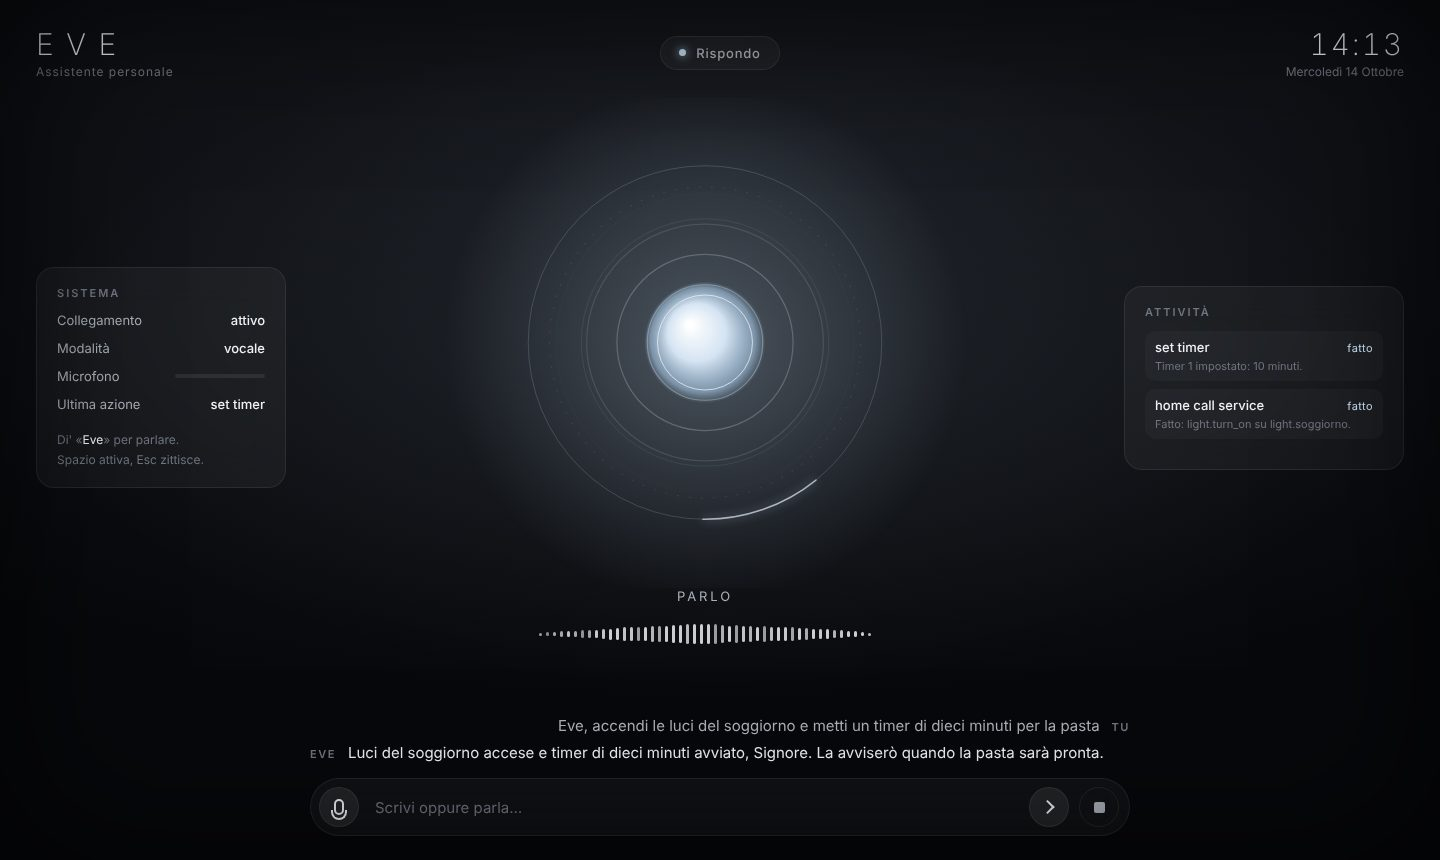
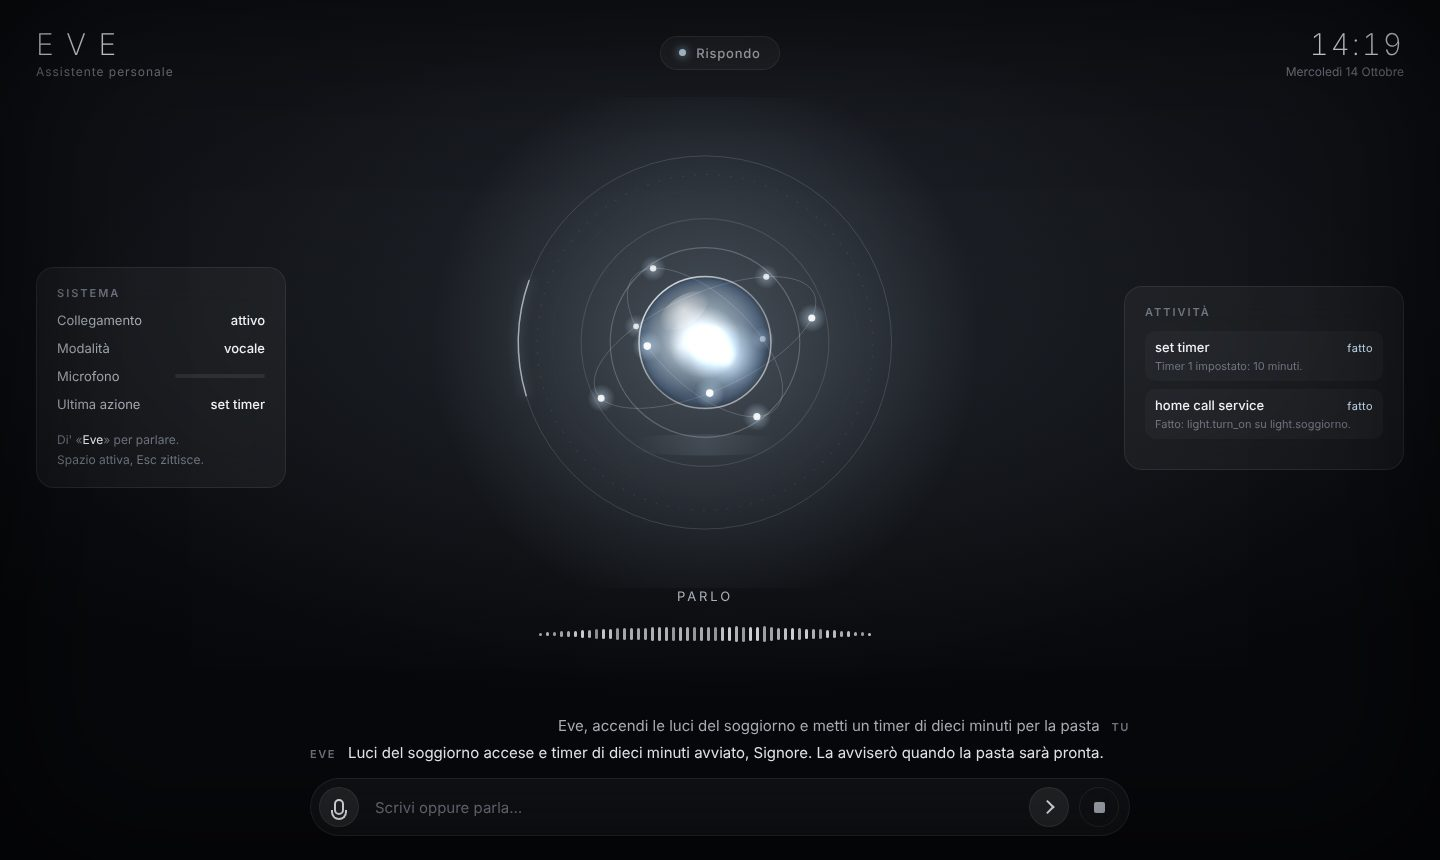
Eve: sfera di vetro con luce interna, orbite inclinate e particelle in 3D
Claude-Session: https://claude.ai/code/session_013V2Xh7CMVtWsTH5LgTtA8c

Changed region(s): [[0.4062, 0.3023, 0.5938, 0.514], [0.4375, 0.7256, 0.5625, 0.7558]]

diff --git a/jarvis/jarvis/ui/static/hud.js b/jarvis/jarvis/ui/static/hud.js
@@ -157,6 +157,9 @@
   window.addEventListener("resize", resize);
   resize();
 
+  const ICE = "207, 233, 255";
+  const SILVER = "235, 240, 246";
+
   function ring(cx, cy, r, width, alpha, dash, rot) {
     ctx.save();
     ctx.translate(cx, cy);
@@ -164,10 +167,148 @@
     ctx.beginPath();
     ctx.arc(0, 0, r, 0, Math.PI * 2);
     ctx.lineWidth = width;
-    ctx.strokeStyle = "rgba(235, 240, 246, " + alpha + ")";
+    ctx.strokeStyle = "rgba(" + SILVER + ", " + alpha + ")";
     if (dash) ctx.setLineDash(dash);
     ctx.stroke();
     ctx.restore();
+  }
+
+  /* Orbite inclinate: cerchi in 3D proiettati sullo schermo */
+  const ORBITS = [
+    { r: 0.64, tilt: 0.95, roll: -0.42, spin: 0.35, phase: 0.0, n: 5 },
+    { r: 0.52, tilt: 1.25, roll: 0.75, spin: -0.5, phase: 1.3, n: 4 },
+  ];
+  function orbitPoint(o, R, theta, rot) {
+    // cerchio nel piano XZ che gira attorno all'asse verticale (rot), visto da un punto
+    // di vista inclinato (tilt) e con il piano ruotato sullo schermo (roll)
+    const x0 = Math.cos(theta), z0 = Math.sin(theta);
+    const x = x0 * Math.cos(rot) - z0 * Math.sin(rot);
+    const z = x0 * Math.sin(rot) + z0 * Math.cos(rot);
+    const px = x * R * o.r, py = z * R * o.r * Math.sin(o.tilt) * 0.5;
+    return { x: px * Math.cos(o.roll) - py * Math.sin(o.roll), y: px * Math.sin(o.roll) + py * Math.cos(o.roll), zr: z };
+  }
+  function drawOrbitRing(cx, cy, o, R, rot, alpha) {
+    ctx.save();
+    ctx.translate(cx, cy);
+    ctx.beginPath();
+    for (let i = 0; i <= 90; i++) {
+      const p = orbitPoint(o, R, (i / 90) * Math.PI * 2, rot);
+      if (i === 0) ctx.moveTo(p.x, p.y); else ctx.lineTo(p.x, p.y);
+    }
+    ctx.closePath();
+    ctx.lineWidth = 1;
+    ctx.strokeStyle = "rgba(" + SILVER + ", " + alpha + ")";
+    ctx.stroke();
+    ctx.restore();
+  }
+  function drawParticles(cx, cy, o, R, rot, t, speed, energy, front) {
+    ctx.save();
+    ctx.translate(cx, cy);
+    for (let k = 0; k < o.n; k++) {
+      const theta = t * o.spin * speed + o.phase + (k / o.n) * Math.PI * 2;
+      const p = orbitPoint(o, R, theta, rot);
+      const isFront = p.zr > 0;
+      if (isFront !== front) continue;
+      const scale = 0.6 + 0.4 * (p.zr + 1) / 2;
+      const size = (1.2 + 1.6 * scale) * (1 + energy * 0.6);
+      const a = (0.25 + 0.6 * scale) * (0.5 + energy * 0.6);
+      const g = ctx.createRadialGradient(p.x, p.y, 0, p.x, p.y, size * 4);
+      g.addColorStop(0, "rgba(255, 255, 255, " + a + ")");
+      g.addColorStop(0.3, "rgba(" + ICE + ", " + a * 0.5 + ")");
+      g.addColorStop(1, "rgba(" + ICE + ", 0)");
+      ctx.fillStyle = g;
+      ctx.beginPath();
+      ctx.arc(p.x, p.y, size * 4, 0, Math.PI * 2);
+      ctx.fill();
+      ctx.fillStyle = "rgba(255, 255, 255, " + Math.min(1, a + 0.2) + ")";
+      ctx.beginPath();
+      ctx.arc(p.x, p.y, size, 0, Math.PI * 2);
+      ctx.fill();
+    }
+    ctx.restore();
+  }
+
+  /* Luce che scorre dentro la sfera: macchie morbide su traiettorie lente */
+  const BLOBS = [
+    { ax: 0.55, ay: 0.35, fx: 0.31, fy: 0.47, ph: 0.0, r: 0.75 },
+    { ax: 0.45, ay: 0.55, fx: 0.23, fy: 0.37, ph: 2.1, r: 0.65 },
+    { ax: 0.35, ay: 0.45, fx: 0.41, fy: 0.29, ph: 4.0, r: 0.55 },
+    { ax: 0.60, ay: 0.25, fx: 0.17, fy: 0.53, ph: 1.0, r: 0.5 },
+  ];
+  function drawSphere(cx, cy, core, t, energy, flash, speed) {
+    // corpo di vetro
+    const body = ctx.createRadialGradient(cx - core * 0.3, cy - core * 0.35, core * 0.1, cx, cy, core);
+    body.addColorStop(0, "rgba(255, 255, 255, " + (0.32 + energy * 0.22) + ")");
+    body.addColorStop(0.5, "rgba(" + ICE + ", " + (0.18 + energy * 0.18) + ")");
+    body.addColorStop(0.92, "rgba(70, 100, 140, 0.45)");
+    body.addColorStop(1, "rgba(40, 60, 90, 0.2)");
+    ctx.fillStyle = body;
+    ctx.beginPath();
+    ctx.arc(cx, cy, core, 0, Math.PI * 2);
+    ctx.fill();
+
+    // luce interna (additiva, ritagliata nella sfera)
+    ctx.save();
+    ctx.beginPath();
+    ctx.arc(cx, cy, core, 0, Math.PI * 2);
+    ctx.clip();
+    ctx.globalCompositeOperation = "lighter";
+    const tt = t * speed;
+    for (const b of BLOBS) {
+      const x = cx + Math.sin(tt * b.fx + b.ph) * core * b.ax;
+      const y = cy + Math.cos(tt * b.fy + b.ph * 0.7) * core * b.ay;
+      const rr = core * b.r * (0.8 + energy * 0.5);
+      const g = ctx.createRadialGradient(x, y, 0, x, y, rr);
+      g.addColorStop(0, "rgba(255, 255, 255, " + (0.12 + energy * 0.26 + flash * 0.3) + ")");
+      g.addColorStop(0.45, "rgba(" + ICE + ", " + (0.07 + energy * 0.12) + ")");
+      g.addColorStop(1, "rgba(" + ICE + ", 0)");
+      ctx.fillStyle = g;
+      ctx.beginPath();
+      ctx.arc(x, y, rr, 0, Math.PI * 2);
+      ctx.fill();
+    }
+    // nucleo
+    const nucleus = ctx.createRadialGradient(cx, cy, 0, cx, cy, core * 0.55);
+    nucleus.addColorStop(0, "rgba(255, 255, 255, " + (0.22 + energy * 0.45 + flash * 0.4) + ")");
+    nucleus.addColorStop(1, "rgba(255, 255, 255, 0)");
+    ctx.fillStyle = nucleus;
+    ctx.beginPath();
+    ctx.arc(cx, cy, core * 0.55, 0, Math.PI * 2);
+    ctx.fill();
+    ctx.restore();
+
+    // bordo illuminato: più forte in alto a sinistra
+    const rim = ctx.createLinearGradient(cx - core, cy - core, cx + core, cy + core);
+    rim.addColorStop(0, "rgba(255, 255, 255, 0.95)");
+    rim.addColorStop(0.5, "rgba(" + SILVER + ", 0.25)");
+    rim.addColorStop(1, "rgba(255, 255, 255, 0.55)");
+    ctx.beginPath();
+    ctx.arc(cx, cy, core, 0, Math.PI * 2);
+    ctx.lineWidth = 1.5;
+    ctx.strokeStyle = rim;
+    ctx.stroke();
+
+    // riflesso speculare
+    ctx.save();
+    ctx.translate(cx - core * 0.32, cy - core * 0.48);
+    ctx.rotate(-0.6);
+    const spec = ctx.createRadialGradient(0, 0, 0, 0, 0, core * 0.42);
+    spec.addColorStop(0, "rgba(255, 255, 255, 0.55)");
+    spec.addColorStop(1, "rgba(255, 255, 255, 0)");
+    ctx.fillStyle = spec;
+    ctx.beginPath();
+    ctx.ellipse(0, 0, core * 0.42, core * 0.22, 0, 0, Math.PI * 2);
+    ctx.fill();
+    ctx.restore();
+
+    // riflesso a terra
+    const floor = ctx.createRadialGradient(cx, cy + core * 1.55, 0, cx, cy + core * 1.55, core * 1.1);
+    floor.addColorStop(0, "rgba(" + ICE + ", " + (0.05 + energy * 0.08) + ")");
+    floor.addColorStop(1, "rgba(" + ICE + ", 0)");
+    ctx.fillStyle = floor;
+    ctx.beginPath();
+    ctx.ellipse(cx, cy + core * 1.55, core * 1.4, core * 0.16, 0, 0, Math.PI * 2);
+    ctx.fill();
   }
 
   let t0 = performance.now();
@@ -176,16 +317,16 @@
     const t = (now - t0) / 1000;
     const w = canvas.clientWidth, h = canvas.clientHeight;
     const cx = w / 2, cy = h / 2;
-    const R = Math.min(w, h) * 0.36;
+    const R = Math.min(w, h) * 0.38;
 
     smooth += (level - smooth) * 0.3;
     level *= 0.9;
-    const breathe = 0.5 + 0.5 * Math.sin(t * 1.2);
+    const breathe = 0.5 + 0.5 * Math.sin(t * 1.1);
     let target;
     if (state === "listening") target = 0.35 + Math.min(1, smooth * 1.6) * 0.65;
     else if (state === "speaking") target = 0.45 + 0.35 * Math.abs(Math.sin(t * 7.3)) * Math.abs(Math.sin(t * 1.9));
-    else if (state === "thinking") target = 0.5 + 0.1 * breathe;
-    else if (state === "idle") target = 0.14 + 0.08 * breathe;
+    else if (state === "thinking") target = 0.55 + 0.1 * breathe;
+    else if (state === "idle") target = 0.16 + 0.1 * breathe;
     else target = 0.04;
     energy += (target - energy) * 0.1;
     wakeFlash *= 0.94;
@@ -193,55 +334,52 @@
     history.shift();
     if (state === "speaking" && now - lastSpeak > 420) { ripples.push(0); lastSpeak = now; }
 
+    const speed = state === "thinking" ? 3.2 : state === "listening" ? 1.3 + smooth * 2 : state === "speaking" ? 1.6 : 1;
+    const rot = t * 0.18 * (state === "thinking" ? 2.5 : 1);
+
     ctx.clearRect(0, 0, w, h);
 
     // alone
     const halo = ctx.createRadialGradient(cx, cy, 0, cx, cy, R * 1.5);
-    halo.addColorStop(0, "rgba(207, 233, 255, " + (0.10 + energy * 0.22 + wakeFlash * 0.3) + ")");
-    halo.addColorStop(1, "rgba(207, 233, 255, 0)");
+    halo.addColorStop(0, "rgba(" + ICE + ", " + (0.10 + energy * 0.22 + wakeFlash * 0.3) + ")");
+    halo.addColorStop(1, "rgba(" + ICE + ", 0)");
     ctx.fillStyle = halo;
     ctx.fillRect(0, 0, w, h);
 
-    // anelli sottili in argento
-    const speed = state === "thinking" ? 1.6 : 0.25;
-    ring(cx, cy, R, 1, 0.16);
-    ring(cx, cy, R * 0.88, 1, 0.10, [2, 10], t * 0.08 * speed);
-    ring(cx, cy, R * 0.70, 1, 0.08);
-    // arco luminoso che gira (più veloce quando elabora)
+    // anelli piatti in argento
+    ring(cx, cy, R, 1, 0.14);
+    ring(cx, cy, R * 0.9, 1, 0.09, [2, 10], t * 0.05);
     ctx.save();
     ctx.translate(cx, cy);
-    ctx.rotate(t * 0.6 * speed);
+    ctx.rotate(t * 0.5 * (state === "thinking" ? 3 : 1));
     ctx.beginPath();
-    ctx.arc(0, 0, R, 0, Math.PI * (state === "thinking" ? 0.5 : 0.22));
+    ctx.arc(0, 0, R, 0, Math.PI * (state === "thinking" ? 0.5 : 0.2));
     ctx.lineWidth = 1.5;
     ctx.lineCap = "round";
-    ctx.strokeStyle = "rgba(235, 240, 246, " + (0.35 + energy * 0.4) + ")";
+    ctx.strokeStyle = "rgba(" + SILVER + ", " + (0.35 + energy * 0.4) + ")";
     ctx.shadowBlur = 10;
-    ctx.shadowColor = "rgba(207, 233, 255, 0.8)";
+    ctx.shadowColor = "rgba(" + ICE + ", 0.8)";
     ctx.stroke();
     ctx.restore();
 
-    // onde quando parla / al risveglio
+    // onde
     for (let i = ripples.length - 1; i >= 0; i--) {
       ripples[i] += 0.012;
       const p = ripples[i];
       if (p >= 1) { ripples.splice(i, 1); continue; }
-      ring(cx, cy, R * (0.32 + p * 0.55), 1.2, (1 - p) * 0.35);
+      ring(cx, cy, R * (0.34 + p * 0.5), 1.2, (1 - p) * 0.35);
     }
 
+    // orbite e particelle dietro la sfera
+    for (const o of ORBITS) drawOrbitRing(cx, cy, o, R, rot * (o.spin > 0 ? 1 : -1), 0.14 + energy * 0.1);
+    for (const o of ORBITS) drawParticles(cx, cy, o, R, rot * (o.spin > 0 ? 1 : -1), t, speed, energy, false);
+
     // sfera
-    const core = R * (0.26 + energy * 0.12 + wakeFlash * 0.06);
-    const g = ctx.createRadialGradient(cx - core * 0.25, cy - core * 0.3, core * 0.05, cx, cy, core);
-    g.addColorStop(0, "rgba(255, 255, 255, 1)");
-    g.addColorStop(0.45, "rgba(225, 240, 255, " + (0.75 + energy * 0.25) + ")");
-    g.addColorStop(0.85, "rgba(170, 205, 235, " + (0.35 + energy * 0.3) + ")");
-    g.addColorStop(1, "rgba(150, 190, 225, 0)");
-    ctx.fillStyle = g;
-    ctx.beginPath();
-    ctx.arc(cx, cy, core, 0, Math.PI * 2);
-    ctx.fill();
-    // bordo sottile della sfera
-    ring(cx, cy, core * 0.78, 1, 0.5 + energy * 0.4);
+    const core = R * (0.30 + energy * 0.09 + wakeFlash * 0.05);
+    drawSphere(cx, cy, core, t, energy, wakeFlash, speed);
+
+    // particelle davanti alla sfera
+    for (const o of ORBITS) drawParticles(cx, cy, o, R, rot * (o.spin > 0 ? 1 : -1), t, speed, energy, true);
 
     // forma d'onda
     const base = state === "idle" || state === "offline" ? 0.08 : 1;
